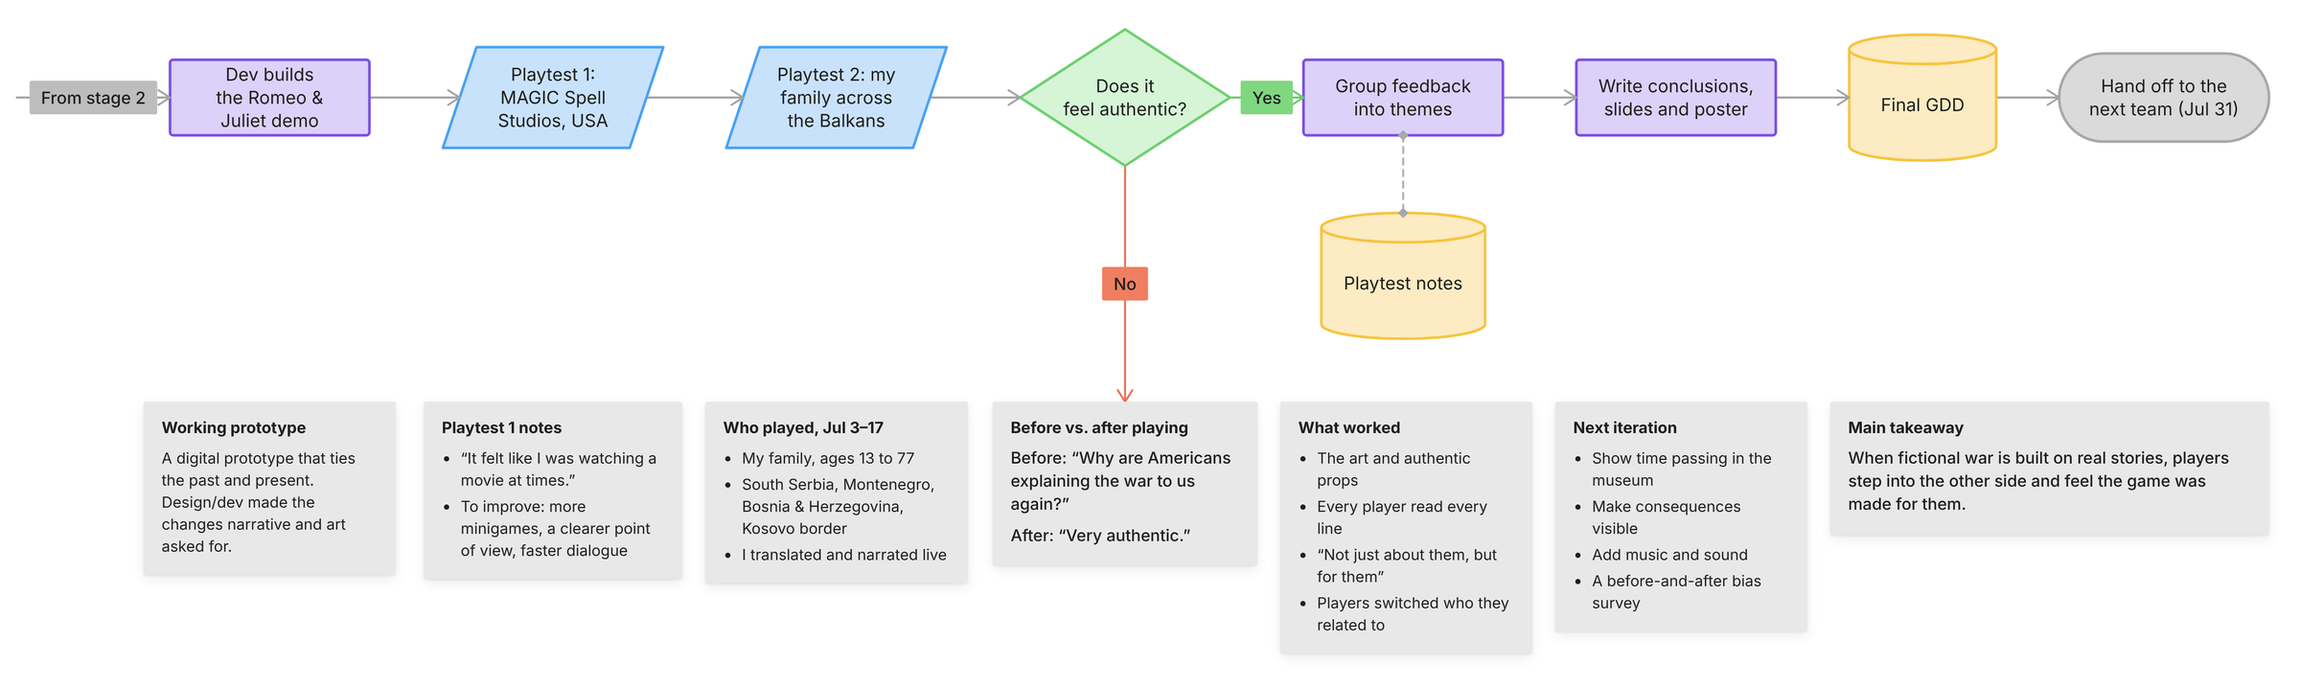
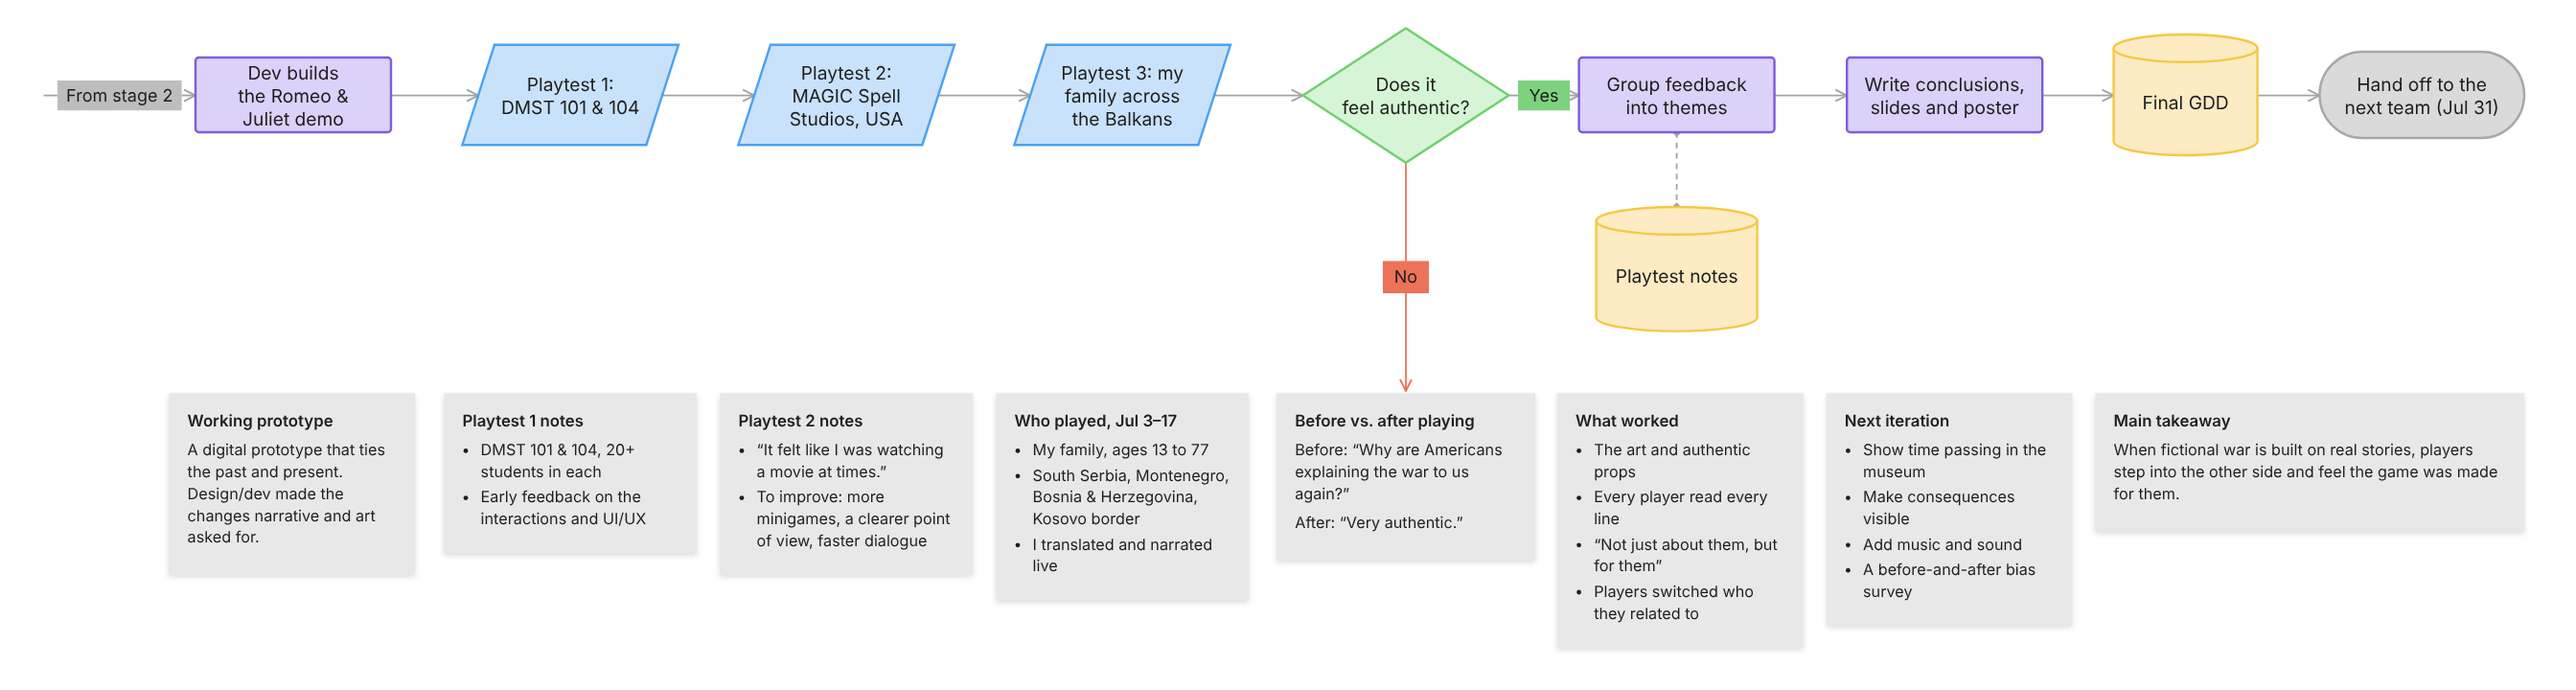
Peaceland: stage 3 workflow shows three playtests (DMST, MAGIC, Balkans); overview says 3 playtests
Claude-Session: https://claude.ai/code/session_017Bf2Ji9pqjddmca5aaYHp1

diff --git a/index.html b/index.html
@@ -1052,7 +1052,7 @@ mark{background:var(--blue);color:var(--on-blue);padding:0 .1em;-webkit-box-deco
       <figure class="wf-fig" id="wf-fig-0" role="tabpanel" aria-labelledby="wf-tab-0"><button type="button" class="tx-zoom wf-zoom" style="--ar:2400/584" data-full="img/peaceland/wf-overview.png" data-cap="Peaceland workflow · Overview" aria-label="Enlarge: Peaceland workflow · Overview"><img src="img/peaceland/wf-overview.png" alt="Overview of the workflow in three stages. Stage 1, research and worldbuilding, Jun 3 to 18: research the history, build the world. Stage 2, story and game design, Jun 16 to Jul 2: write memories and outline, design decisions and endings, then team approval, or revise. Stage 3, playtest and results, Jul 3 to 31: playtest with players; if it feels authentic, hand off to the next team on Jul 31 with the final game design document, if not, back to the research." loading="lazy" width="2400" height="584"></button><figcaption class="label">Peaceland workflow · Overview</figcaption></figure>
       <figure class="wf-fig" id="wf-fig-1" role="tabpanel" aria-labelledby="wf-tab-1" hidden><button type="button" class="tx-zoom wf-zoom" style="--ar:2400/763" data-full="img/peaceland/wf-stage1.png" data-cap="Stage 1 · Research & worldbuilding · Jun 3–18" aria-label="Enlarge: Stage 1 · Research & worldbuilding · Jun 3–18"><img src="img/peaceland/wf-stage1.png" alt="Stage 1 workflow: join the Narrative Team on Jan 20, family playtest in the South Balkans, write the research question, research history, news and language into a research journal of 38 sources, define the three groups and their voices, check the history is specific enough (no on Jun 10 feedback, back to research), write character bios and family history, build the museum artifact list with reference images for the art team." loading="lazy" width="2400" height="763"></button><figcaption class="label">Stage 1 · Research & worldbuilding · Jun 3–18</figcaption></figure>
       <figure class="wf-fig" id="wf-fig-2" role="tabpanel" aria-labelledby="wf-tab-2" hidden><button type="button" class="tx-zoom wf-zoom" style="--ar:2400/678" data-full="img/peaceland/wf-stage2.png" data-cap="Stage 2 · Story & game design · Jun 16 – Jul 2" aria-label="Enlarge: Stage 2 · Story & game design · Jun 16 – Jul 2"><img src="img/peaceland/wf-stage2.png" alt="Stage 2 workflow: write the five memories, outline days one to six, design decision points and the notebook, use the Everyday Peace Indicators, design the four endings, present at the all-team meeting; if the team does not approve, revise the outline." loading="lazy" width="2400" height="678"></button><figcaption class="label">Stage 2 · Story & game design · Jun 16 – Jul 2</figcaption></figure>
-      <figure class="wf-fig" id="wf-fig-3" role="tabpanel" aria-labelledby="wf-tab-3" hidden><button type="button" class="tx-zoom wf-zoom" style="--ar:2400/718" data-full="img/peaceland/wf-stage3.png" data-cap="Stage 3 · Playtest & results · Jul 3–31" aria-label="Enlarge: Stage 3 · Playtest & results · Jul 3–31"><img src="img/peaceland/wf-stage3.png" alt="Stage 3 workflow: the developers build the Romeo and Juliet demo, playtest 1 at MAGIC Spell Studios in the USA, playtest 2 with family across the Balkans, check whether it feels authentic, group the feedback into themes from the playtest notes, write conclusions, slides and the poster, finish the final game design document, and hand off to the next team on Jul 31." loading="lazy" width="2400" height="718"></button><figcaption class="label">Stage 3 · Playtest & results · Jul 3–31</figcaption></figure>
+      <figure class="wf-fig" id="wf-fig-3" role="tabpanel" aria-labelledby="wf-tab-3" hidden><button type="button" class="tx-zoom wf-zoom" style="--ar:2688/720" data-full="img/peaceland/wf-stage3.png" data-cap="Stage 3 · Playtest & results · Jul 3–31" aria-label="Enlarge: Stage 3 · Playtest & results · Jul 3–31"><img src="img/peaceland/wf-stage3.png" alt="Stage 3 workflow: the developers build the Romeo and Juliet demo, playtest 1 in the DMST 101 and 104 courses, playtest 2 at MAGIC Spell Studios in the USA, playtest 3 with family across the Balkans, check whether it feels authentic, group the feedback into themes from the playtest notes, write conclusions, slides and the poster, finish the final game design document, and hand off to the next team on Jul 31." loading="lazy" width="2688" height="720"></button><figcaption class="label">Stage 3 · Playtest & results · Jul 3–31</figcaption></figure>
       <img class="wf-key" src="img/peaceland/wf-key.png" alt="Key: rounded shape is start or end, diamond is a decision, rectangle is a process, cylinder is data, slanted box is an input, grey card is a note. A solid arrow is the next step, a dashed line uses or produces data, green and red tags are yes and no answers." loading="lazy" width="2170" height="172">
     </section>
 
